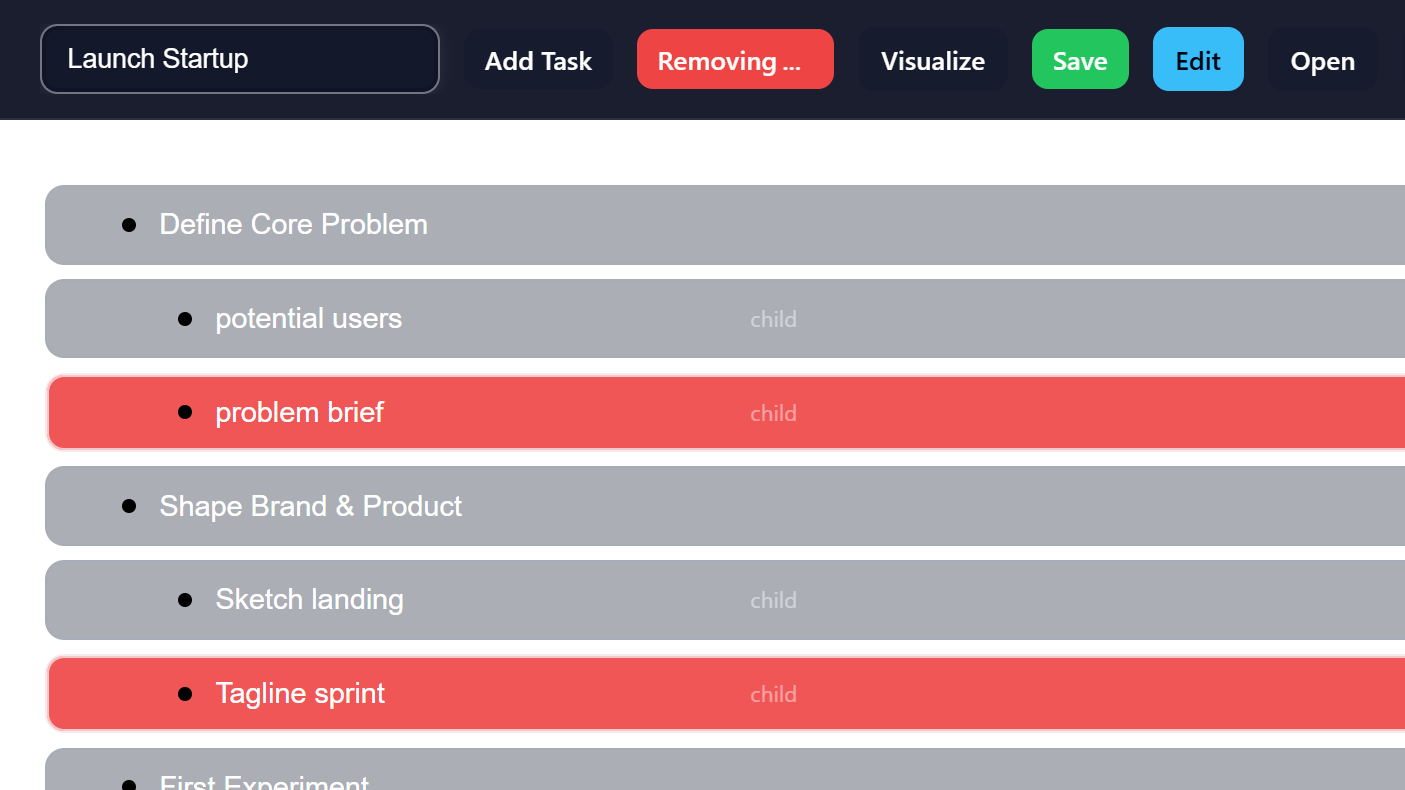
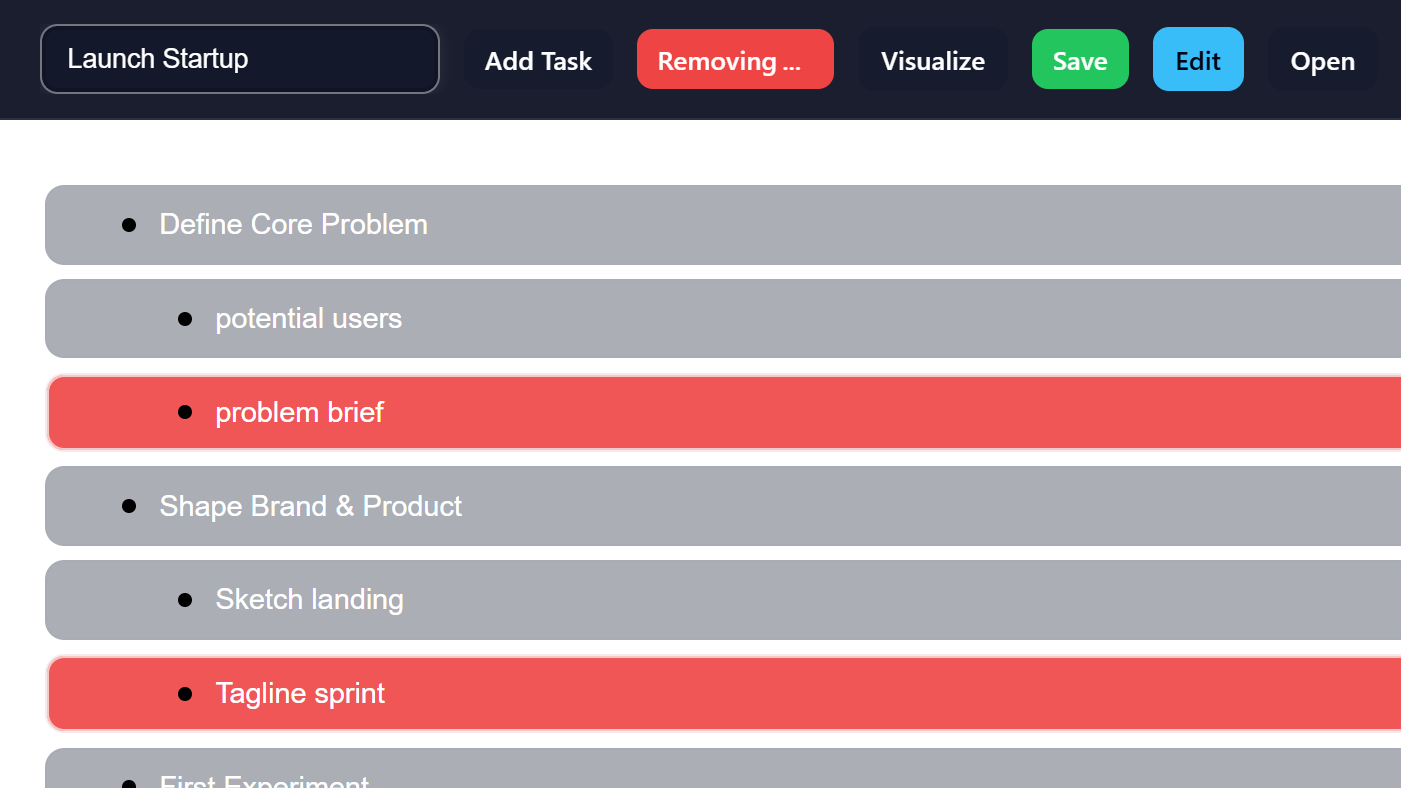
Update MapView mit Remove-Mode

diff --git a/src/App.tsx b/src/App.tsx
@@ -772,7 +772,7 @@ function Row({
           placeholder="Task title…"
           readOnly={removeMode}
         />
-        
+        {task.parentId && <span className="task-parent-label"></span>}
         <span className="drag-handle right" onPointerDown={handlePointerDownDragZone} />
       </div>
 
